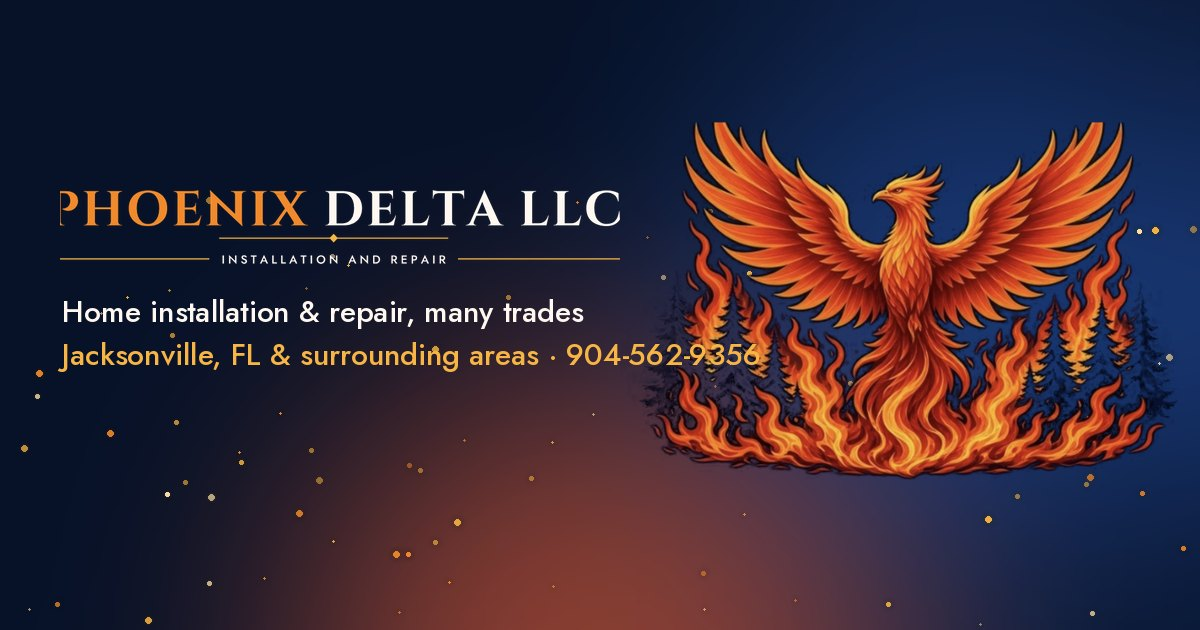
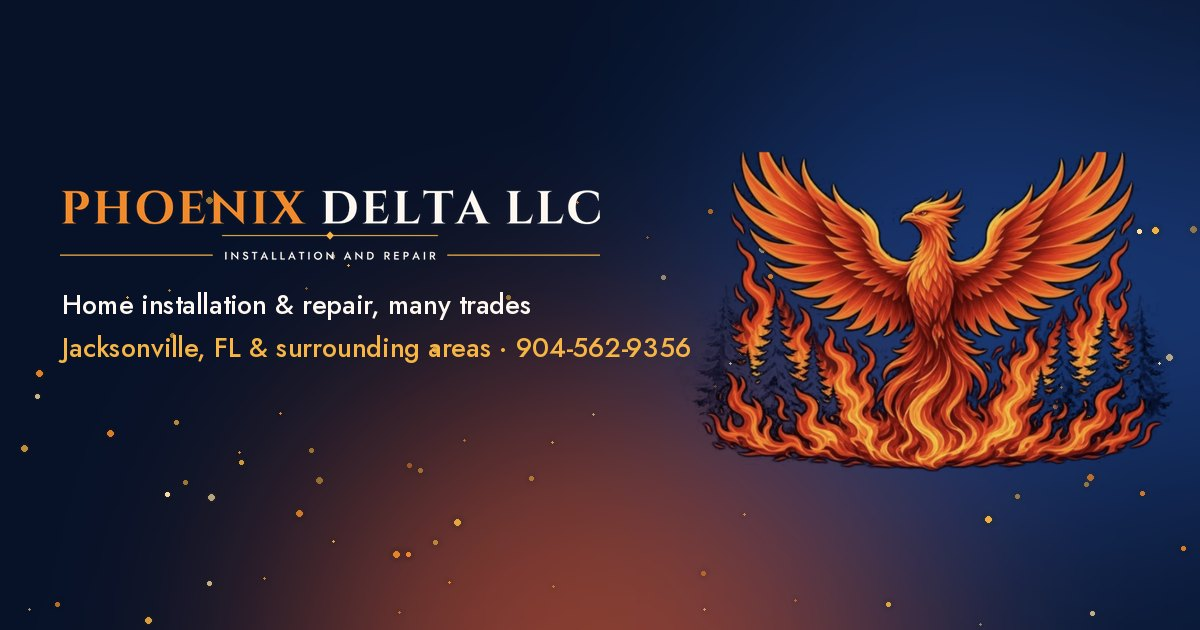
Fix OG image wordmark crop

Changed region(s): [[0.0308, 0.181, 0.9867, 0.7841], [0.0308, 0.3016, 0.5242, 0.4222]]

diff --git a/_generator/build.py b/_generator/build.py
@@ -29,14 +29,17 @@ for _ in range(90):
     s.ellipse((x-r,y-r,x+r,y+r),fill=c+(random.randint(120,255),))
 sp=Image.alpha_composite(sp.filter(ImageFilter.GaussianBlur(3)),sp)
 og=og.convert('RGBA'); og.alpha_composite(sp)
-em=Image.open(BR/'pd-emblem-cutout.png').convert('RGBA'); em=em.resize((560,round(em.height*560/em.width)),Image.LANCZOS); og.alpha_composite(em,(620,120))
+em=Image.open(BR/'pd-emblem-cutout.png').convert('RGBA'); em=em.resize((500,round(em.height*500/em.width)),Image.LANCZOS); og.alpha_composite(em,(675,150))
 lg=Image.open(BR/'png/stacked-dark-1000.png').convert('RGBA')
 wm=Image.open(BR/'png/horizontal-dark-1400.png').convert('RGBA'); bb=wm.getbbox(); wm=wm.crop(bb)
-# wordmark only = right part of horizontal lockup (after emblem); detect by taking right 58%
-wcrop=wm.crop((int(wm.width*.36),0,wm.width,wm.height)); wcrop=wcrop.crop(wcrop.getbbox()); wcrop=wcrop.resize((560,round(wcrop.height*560/wcrop.width)),Image.LANCZOS)
+# wordmark only = the part of the horizontal lockup right of the transparent gap after the emblem
+import numpy as np
+al=np.array(wm.split()[3]); cols=(al>8).sum(0); x0=int(wm.width*.2)
+gap=next(x for x in range(x0,wm.width) if cols[x]==0); start=next(x for x in range(gap,wm.width) if cols[x]>0)
+wcrop=wm.crop((start,0,wm.width,wm.height)); wcrop=wcrop.crop(wcrop.getbbox()); wcrop=wcrop.resize((540,round(wcrop.height*540/wcrop.width)),Image.LANCZOS)
 og.alpha_composite(wcrop,(60,190)); og=og.convert('RGB'); d=ImageDraw.Draw(og)
 try:
-    fnt=ImageFont.truetype('/usr/share/fonts/truetype/sand-box/google/Jost/Jost-VariableFont_wght.ttf',30); fnt.set_variation_by_axes([500])
+    fnt=ImageFont.truetype('/usr/share/fonts/truetype/sand-box/google/Jost/Jost-VariableFont_wght.ttf',27); fnt.set_variation_by_axes([500])
     d.text((62,215+wcrop.height),'Home installation & repair, many trades',font=fnt,fill=(255,248,240)); d.text((62,258+wcrop.height),f'Jacksonville, FL & surrounding areas · {PHONE}',font=fnt,fill=(246,181,68))
 except Exception as ex: print('og font',ex)
 og.save(A/'og-image.jpg',quality=86)
